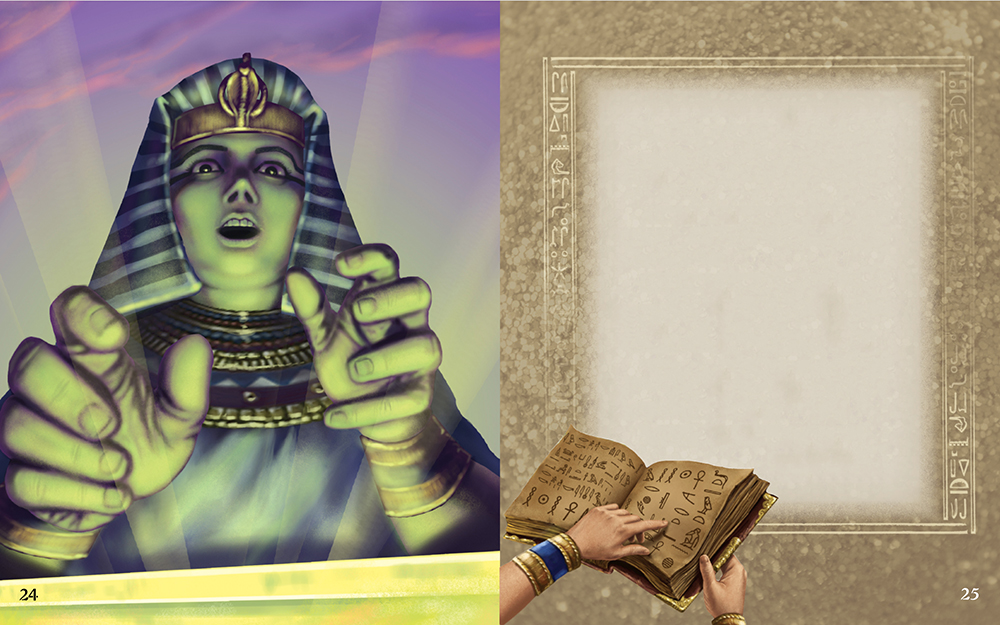
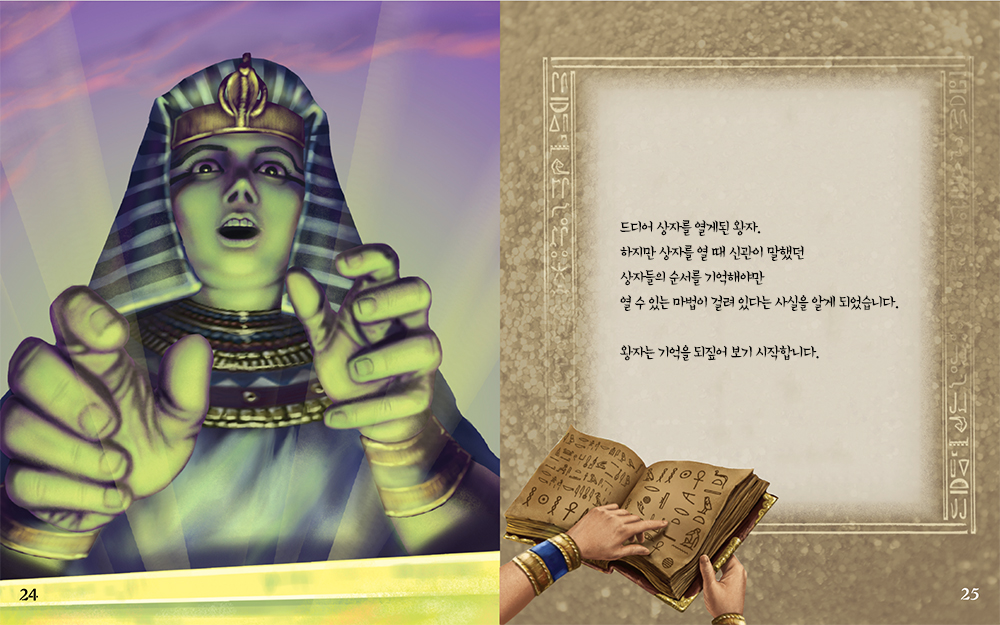
순서 맞추기 게임

Changed region(s): [[0.62, 0.3344, 0.899, 0.5168], [0.62, 0.5472, 0.806, 0.5776]]

diff --git a/WebContent/js/custom.js b/WebContent/js/custom.js
@@ -1,3 +1,5 @@
+var x=[];
+
 $(function() {
 	$('.prebtn').click(function(){
 		var thisNum=parseInt($(this).parents('div').attr('id'));
@@ -27,7 +29,7 @@ $(function() {
 			$('#selection21').show();
 		}else if(thisNum=='15-1' || thisNum=='15-2'){
 			$('#selection15').show();
-		}else if(thisNum=='7-1' || thisNum=='7-2'|| thisNum=='10-1'|| thisNum=='21-1'){
+		}else if(thisNum=='7-1' || thisNum=='7-2'|| thisNum=='10-1'|| thisNum=='17-1'|| thisNum=='21-1'){
 			$('#badEnding').show();
 		}else{
 			$('#'+nextNum).show();
@@ -87,4 +89,64 @@ $(function() {
 		$('#badEnding').hide();
 		$('#1').show();
 	})
+	
+	$('#btn_1').click(function(){
+		pushX('1');
+		checkLength();
+	})
+	$('#btn_2').click(function(){
+		pushX('2');
+		checkLength();
+	})
+	$('#btn_3').click(function(){
+		pushX('3');
+		checkLength();
+	})
+	$('#btn_4').click(function(){
+		pushX('4');
+		checkLength();
+	})
+	$('#btn_5').click(function(){
+		pushX('5');
+		checkLength();
+	})
+	$('#btn_6').click(function(){
+		pushX('6');
+		checkLength();
+	})
 });
+
+function checkLength(){
+	if(x.length==6){
+		if(x[0]=='1' && x[1]=='2' && x[2]=='3' && x[3]=='4' && x[4]=='5'&& x[5]=='6'){
+			$('#selection17').hide();
+			$('#17').show();
+			$('#show').empty();
+			x=[];
+		}else{
+			$('#selection17').hide();
+			$('#17-1').show();
+			$('#show').empty();
+			x=[];
+		}
+	}
+}
+
+function pushX(input){
+	x.push(input);
+	var kor;
+	if(input=='1'){
+		kor="철";
+	}else if(input=='2'){
+		kor="청동";
+	}else if(input=='3'){
+		kor="단풍나무";
+	}else if(input=='4'){
+		kor="상아와 흑단";
+	}else if(input=='5'){
+		kor="은";
+	}else if(input=='6'){
+		kor="금";
+	}
+	$('#show').append(kor);
+}

diff --git a/WebContent/index.html b/WebContent/index.html
@@ -6,7 +6,7 @@
 <title>토트의 서</title>
 
 <link rel="stylesheet" href="//maxcdn.bootstrapcdn.com/font-awesome/4.3.0/css/font-awesome.min.css">
-<!-- <link rel="stylesheet" href="css/bootstrap.min.css"> -->
+<link rel="stylesheet" href="css/bootstrap.min.css">
 <link rel="stylesheet" href="css/custom.css">
 <link rel="stylesheet" href="css/user.css">
  
@@ -14,12 +14,12 @@
 <script src="https://cdnjs.cloudflare.com/ajax/libs/json2/20140204/json2.js"></script>
 <!-- <script src="js/bootstrap.min.js"></script> -->
 <script src="js/custom.js"></script>
-<script src="js/userController.js"></script>
+<!-- <script src="js/userController.js"></script> -->
 <script src="js/storage.js"></script>
 
 </head>
 <body>
-	<div id="firstView" style="display:none;">
+ 	<div id="firstView" style="display:none;">
 		<div id="login">
 			<div id="login_content_wrapper">
 				<form action="" class="login_form modal" id="login_modal">
@@ -202,9 +202,14 @@
 		</div>
 				
 		<div id="selection17" class="story selection" style="display:none;">
-			<div class="selectdiv">		
-				<button id="btn17">순서맞추기다 ㅋㅋ 망했</button><br>
-				<button id="btn17-1">거절한다</button><br>
+			<div class="selectdiv">
+				<div id="show"></div><br>					
+				<button id="btn_2">청동</button><br>				
+				<button id="btn_1">철</button><br>
+				<button id="btn_4">상아와 흑단</button><br>
+				<button id="btn_6">금</button><br>
+				<button id="btn_5">은</button><br>
+				<button id="btn_3">단풍나무</button><br>				
 			</div>
 			<img src="img/16.jpg">
 		</div>

diff --git a/WebContent/css/custom.css b/WebContent/css/custom.css
@@ -74,7 +74,15 @@
     height: 53px;
 	
 }
+#selection17 img{
+    top: -290px;
 
+}
+
+#selection17 button{
+    top: 164px;
+	
+}
 #goodEnding img{
     top: 0px;	
 }
@@ -104,4 +112,11 @@
     position: relative;
 	
     top: 50px;
+}
+#show{
+    color: white;
+	
+    position: relative;
+    top: 119px;
+    height: 20px;
 }
